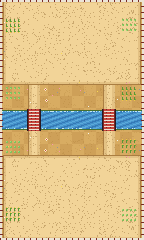
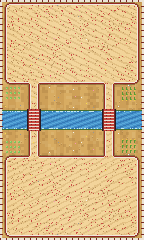
Arena: pátio bem acabado, um material por tema
- O terreno dos módulos virou um pátio só, com meio-fio, cantos arredondados e sombra na grama
- Cada arena tem o seu chão: terra, tábua, lajota, tijolo, areia, pedra de rio (com musgo, brilho etc.)
- Caminhos das pontes no mesmo material; grama sem xadrez (faixas suaves e tufinhos)
- shot.gd aceita SHOT_ARENA pra conferir qualquer arena

Claude-Session: https://claude.ai/code/session_01F2c9wwKpd4XWAaAeM55Dzi

diff --git a/ci/tools/arte/arena.py b/ci/tools/arte/arena.py
@@ -23,6 +23,96 @@ WATER = [(92, 170, 220), (70, 148, 204), (52, 120, 182)]
 FOAM = (196, 232, 246)
 WOOD = [(176, 122, 72), (142, 94, 52), (104, 66, 36)]
 OUT = (42, 26, 34)
+# PÁTIO: estilo do chão + 4 cores (claro, meio, escuro, detalhe) + meio-fio (claro, escuro)
+YARD = "terra"
+YP = [(206, 166, 112), (190, 150, 98), (146, 108, 68), (118, 160, 70)]
+CURB = [(214, 200, 176), (108, 92, 76)]
+
+
+def _noise(x, y, seed=0):
+    h = (x * 374761393 + y * 668265263 + seed * 982451653) & 0xFFFFFFFF
+    h = (h ^ (h >> 13)) * 1274126177 & 0xFFFFFFFF
+    return ((h ^ (h >> 16)) & 0xFFFF) / 65535.0
+
+
+def _mix(a, b, t):
+    return tuple(int(round(a[i] + (b[i] - a[i]) * t)) for i in range(3))
+
+
+def _yard_px(style, P, lx, ly, rnd):
+    L, M, D, A = P
+    if style == "tijolo":            # tijolinho deitado, fiada desencontrada
+        row = ly // 3
+        off = 3 if row % 2 else 0
+        if ly % 3 == 2 or (lx + off) % 7 == 6:
+            return D
+        bid = ((lx + off) // 7) * 31 + row * 17
+        c = L if _noise(bid, row, 3) > 0.55 else M
+        if ly % 3 == 0:
+            c = _mix(c, (255, 255, 255), 0.12)
+        return c
+    if style == "laje":              # lajotas grandes com rejunte e uma trincazinha
+        row = ly // 8
+        off = 4 if row % 2 else 0
+        tx, ty = (lx + off) % 8, ly % 8
+        if tx == 7 or ty == 7:
+            return D if _noise(lx, ly, 9) > 0.04 else A
+        tid = ((lx + off) // 8) * 13 + row * 7
+        c = _mix(L, M, _noise(tid, 1, 5) * 0.8)
+        if tx == 0 or ty == 0:
+            c = _mix(c, (255, 255, 255), 0.1)
+        if _noise(tid, 2, 6) > 0.86 and tx == ty and 2 <= tx <= 4:
+            c = _mix(c, D, 0.7)   # trincazinha curta, só em poucas lajotas
+        return c
+    if style == "pedra":             # pedra de rio (paralelepípedo torto), rejunte com musgo
+        best, second, bid = 99.0, 99.0, 0
+        for gx in range(lx // 5 - 1, lx // 5 + 2):
+            for gy in range(ly // 4 - 1, ly // 4 + 2):
+                cx = gx * 5 + 1 + _noise(gx, gy, 21) * 3
+                cy = gy * 4 + 1 + _noise(gx, gy, 22) * 2
+                d = ((lx - cx) ** 2 + (ly - cy) ** 2) ** 0.5
+                if d < best:
+                    second, best, bid = best, d, gx * 97 + gy
+                elif d < second:
+                    second = d
+        if second - best < 0.9:
+            return A if _noise(lx, ly, 23) > 0.9 else D
+        c = _mix(L, M, _noise(bid, 0, 24))
+        return c
+    if style == "tabua":             # deque de tábua (passarela), emendas e pregos
+        row = ly // 3
+        seg = 10 + int(_noise(row, 0, 31) * 8)
+        off = int(_noise(row, 1, 32) * seg)
+        if ly % 3 == 2:
+            return D
+        if (lx + off) % seg == 0:
+            return D
+        if (lx + off) % seg == 1 and ly % 3 == 0:
+            return A
+        c = L if row % 2 else M
+        if _noise(lx // 4, row, 33) > 0.8:
+            c = _mix(c, D, 0.25)
+        return c
+    if style == "areia":             # areia com marquinha de vento
+        w = math.sin(lx * 0.55 + ly * 1.1 + _noise(lx // 6, ly // 6, 41) * 2.0)
+        c = L if w < 0.55 else M
+        n = _noise(lx, ly, 42)
+        if n > 0.97:
+            c = A
+        elif n < 0.03:
+            c = D
+        return c
+    # terra batida: manchas suaves, pedrinha com brilho, um tufinho do tema
+    n = _noise(lx // 3, ly // 3, 51)
+    c = L if n > 0.6 else M
+    k = _noise(lx, ly, 52)
+    if k > 0.965:
+        c = D
+    elif k > 0.955:
+        c = _mix(L, (255, 255, 255), 0.3)
+    elif k < 0.012:
+        c = A
+    return c
 
 
 def build(seed=7):
@@ -30,14 +120,23 @@ def build(seed=7):
     img = Image.new("RGB", (PW, PH), G1)
     px = img.load()
 
-    # grama em faixas largas alternadas (cara de campo aparado)
+    # grama: faixas de corte bem suaves (verticais) + manchas + tufinhos -- nada de xadrez
     for y in range(PH):
         for x in range(PW):
-            band = ((x // 12) + (y // 12)) % 2
-            c = G1 if band == 0 else G2
-            if rnd.random() < 0.06:
-                c = tuple(max(0, v - 10) for v in c)
+            stripe = (x // 8) % 2
+            n = _noise(x // 3, y // 3, 11)
+            c = G1 if stripe == 0 else G2
+            if n > 0.78:
+                c = _mix(c, G3, 0.35)
+            elif n < 0.12:
+                c = _mix(c, (255, 255, 230), 0.08)
             px[x, y] = c
+    for _ in range(260):
+        x = rnd.randrange(3, PW - 3)
+        y = rnd.randrange(3, PH - 3)
+        px[x, y] = _mix(px[x, y], G3, 0.6)
+        if y > 0:
+            px[x, y - 1] = _mix(px[x, y - 1], (255, 255, 220), 0.18)
 
     def mirror_set(x, y, c):
         if 0 <= x < PW and 0 <= y < PH:
@@ -52,31 +151,59 @@ def build(seed=7):
     COLS = (CX - MOD_X, CX, CX + MOD_X)
     ROWS = (CY + 47.5, CY + 80, CY + 112.5)            # mundo: 190, 320, 450 a partir do rio
 
-    def dirt(x, y, edge=False):
-        c = DIRT[1] if edge else DIRT[0]
-        if rnd.random() < 0.07:
-            c = DIRT[2]
-        mirror_set(x, y, c)
+    # ---- O PÁTIO: um terreno só, bem acabado, no material do tema (terra, tijolo, pedra,
+    # laje, tábua, areia), com meio-fio, cantos arredondados e sombrinha na grama.
+    yx0, yx1 = int(COLS[0] - 10), int(COLS[2] + 10)
+    yy0, yy1 = int(ROWS[0] - 11), PH - 4
+    R = 4   # raio dos cantos
 
-    # dois caminhos RETOS: cada ponte desce direto até o pátio
-    for col_x, half in ((CX - BRIDGE_X, 5), (CX + BRIDGE_X, 5)):
-        for y in range(CY + RIVER_HALF, int(ROWS[0])):
-            for x in range(int(col_x - half - 1), int(col_x + half + 1)):
-                d = abs(x + 0.5 - col_x)
-                if d <= half:
-                    dirt(x, y, d >= half - 2)
-                elif d <= half + 1:
-                    mirror_set(x, y, G3)
+    def inside(x, y, x0, y0, x1, y1, r):
+        if x < x0 or x > x1 or y < y0 or y > y1:
+            return False
+        cx = min(max(x, x0 + r), x1 - r)
+        cy = min(max(y, y0 + r), y1 - r)
+        return (x - cx) ** 2 + (y - cy) ** 2 <= r * r + 0.5
 
-    # o pátio: um quadrado de terra batida em volta da base, com borda
-    yx0, yx1 = max(int(COLS[0] - 11), 4), min(int(COLS[2] + 11), PW - 5)
-    yy0, yy1 = int(ROWS[0] - 11), min(int(ROWS[2] + 11), PH - 2)
-    for y in range(yy0 - 1, yy1 + 2):
-        for x in range(yx0 - 1, yx1 + 2):
-            if x < yx0 or x > yx1 or y < yy0 or y > yy1:
-                mirror_set(x, y, G3)
+    # caminhos das pontes até o pátio, no mesmo material
+    paths = []
+    for col_x in (CX - BRIDGE_X, CX + BRIDGE_X):
+        paths.append((int(col_x - 5), CY + RIVER_HALF, int(col_x + 4), yy0 + 2))
+
+    def floor_at(x, y):
+        if inside(x, y, yx0, yy0, yx1, yy1, R):
+            return True
+        for (a, b, c2, d) in paths:
+            if a <= x <= c2 and b <= y <= d:
+                return True
+        return False
+
+    def edge_dist(x, y):
+        # 0 = borda; 1 = um pixel pra dentro; 9 = longe
+        for dd in range(0, 3):
+            for dx, dy in ((dd + 1, 0), (-dd - 1, 0), (0, dd + 1), (0, -dd - 1)):
+                if not floor_at(x + dx, y + dy) and y + dy > CY + RIVER_HALF:
+                    return dd
+        return 9
+
+    for y in range(CY + RIVER_HALF, PH - 2):
+        for x in range(2, PW - 2):
+            if not floor_at(x, y):
+                # sombrinha do meio-fio na grama em volta
+                near = any(floor_at(x + dx, y + dy) for dx, dy in ((1, 0), (-1, 0), (0, 1), (0, -1)))
+                if near:
+                    mirror_set(x, y, _mix(px[x, y], (0, 0, 0), 0.28))
+                continue
+            e = edge_dist(x, y)
+            if e == 0:
+                c = CURB[1]
+            elif e == 1:
+                c = CURB[0]
             else:
-                dirt(x, y, x - yx0 < 2 or yx1 - x < 2 or y - yy0 < 2 or yy1 - y < 2)
+                c = _yard_px(YARD, YP, x - yx0, y - yy0, rnd)
+                # meio do pátio um tiquinho mais claro (cara de chão gasto onde se pisa)
+                cxn = abs(x - CX) / (PW / 2.0)
+                c = _mix(c, (255, 255, 240), max(0.0, 0.07 - cxn * 0.07))
+            mirror_set(x, y, c)
     # (sem marcação redonda dos lugares: o pátio é liso)
 
     # rio no meio (com espuma nas margens e brilho)
@@ -141,8 +268,6 @@ def build(seed=7):
                     mirror_set(x, y - 1, (170, 220, 120))
                 mirror_set(x, y + 1, DIRT[2])
 
-    crop(6, PH - 30, "milho")
-    crop(PW - 22, PH - 30, "repolho")
     crop(6, CY + 22, "repolho")
     crop(PW - 22, CY + 22, "milho")
 

diff --git a/ci/tools/arte/arenas.py b/ci/tools/arte/arenas.py
@@ -7,7 +7,7 @@ from PIL import Image
 import arena as A
 
 ROOT = os.path.abspath(os.path.join(os.path.dirname(__file__), "..", "..", ".."))
-DEF = dict(G1=A.G1, G2=A.G2, G3=A.G3, DIRT=A.DIRT, WATER=A.WATER, FOAM=A.FOAM, WOOD=A.WOOD)
+DEF = dict(G1=A.G1, G2=A.G2, G3=A.G3, DIRT=A.DIRT, WATER=A.WATER, FOAM=A.FOAM, WOOD=A.WOOD, YARD=A.YARD, YP=A.YP, CURB=A.CURB)
 THEMES = {
     1: dict(nome="Pasto Verde"),
     2: dict(nome="Curral Velho", G1=(198, 172, 112), G2=(184, 158, 100), G3=(150, 124, 76),
@@ -37,6 +37,24 @@ THEMES = {
     12: dict(nome="Arena do Rodeio", G1=(216, 172, 98), G2=(206, 160, 88), G3=(170, 126, 66),
              DIRT=[(242, 212, 152), (228, 194, 132), (202, 168, 110)], WOOD=[(200, 70, 60), (236, 228, 214), (120, 40, 36)], decor="estrela"),
 }
+
+# o PÁTIO de cada arena: material do chão + cores (claro, meio, escuro, detalhe) + meio-fio
+YARDS = {
+    1: dict(YARD="terra", YP=[(206, 166, 112), (190, 150, 98), (146, 108, 68), (118, 160, 70)], CURB=[(226, 214, 188), (112, 94, 74)]),
+    2: dict(YARD="tabua", YP=[(170, 120, 76), (152, 104, 64), (92, 60, 36), (70, 60, 54)], CURB=[(196, 150, 100), (84, 56, 34)]),
+    3: dict(YARD="laje", YP=[(230, 214, 182), (214, 196, 162), (150, 128, 98), (196, 120, 80)], CURB=[(244, 236, 218), (130, 110, 84)]),
+    4: dict(YARD="terra", YP=[(214, 176, 118), (196, 158, 102), (150, 114, 70), (236, 200, 80)], CURB=[(232, 214, 150), (120, 96, 58)]),
+    5: dict(YARD="tabua", YP=[(132, 112, 84), (116, 98, 72), (66, 56, 42), (56, 52, 46)], CURB=[(156, 136, 104), (54, 46, 36)]),
+    6: dict(YARD="tijolo", YP=[(204, 112, 78), (184, 96, 66), (226, 214, 196), (0, 0, 0)], CURB=[(232, 222, 204), (110, 70, 56)]),
+    7: dict(YARD="areia", YP=[(250, 236, 198), (236, 216, 170), (196, 170, 120), (250, 180, 170)], CURB=[(255, 250, 236), (190, 160, 110)]),
+    8: dict(YARD="pedra", YP=[(150, 150, 132), (124, 126, 110), (70, 76, 62), (70, 140, 70)], CURB=[(176, 176, 156), (56, 64, 48)]),
+    9: dict(YARD="laje", YP=[(112, 102, 150), (96, 88, 132), (52, 46, 80), (124, 240, 180)], CURB=[(148, 140, 190), (40, 36, 64)]),
+    10: dict(YARD="pedra", YP=[(120, 100, 104), (100, 82, 88), (52, 40, 48), (232, 170, 70)], CURB=[(150, 128, 128), (42, 32, 38)]),
+    11: dict(YARD="laje", YP=[(248, 246, 240), (232, 230, 224), (180, 176, 170), (216, 184, 90)], CURB=[(255, 255, 255), (160, 154, 146)]),
+    12: dict(YARD="areia", YP=[(242, 210, 150), (226, 190, 128), (186, 146, 90), (200, 70, 60)], CURB=[(240, 234, 222), (150, 40, 36)]),
+}
+for _n, _y in YARDS.items():
+    THEMES[_n].update(_y)
 
 
 def decorate(img, kind, seed):
